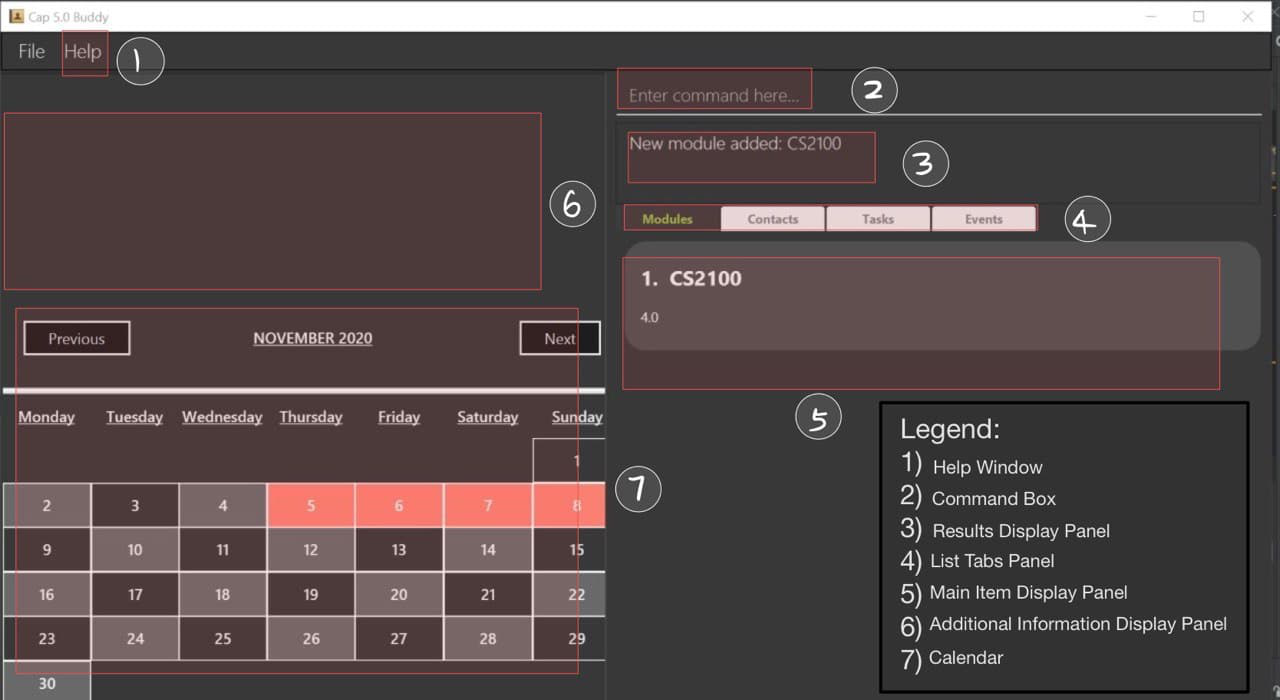
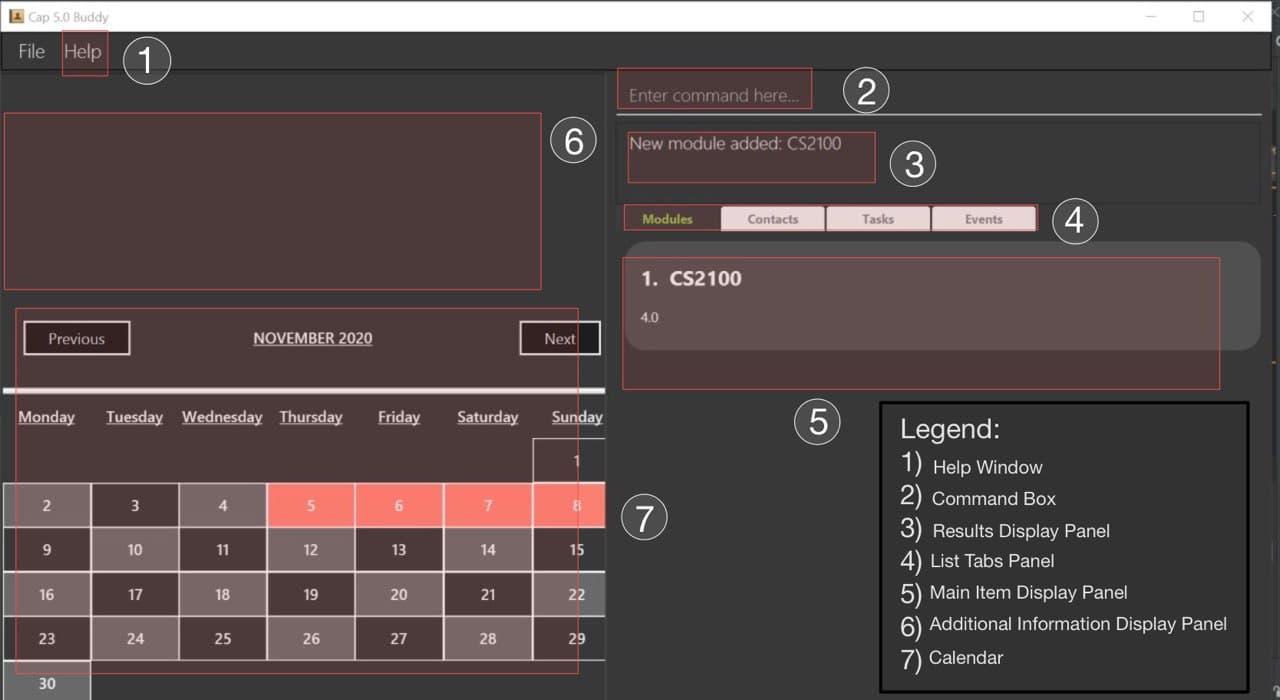
Update UG

diff --git a/docs/index.md b/docs/index.md
@@ -45,47 +45,47 @@ For a quick summary of all available commands, you may scroll to the end of this
 
 #### Help Window (Matthias Li Huankang)
 <p align="center"><img src="images/Help.png" border="2px solid black"></p>
-<p align="center"> Help Window </p>
+<p align="center"> <em>Help Window</em> </p>
 
 You can click this button to open up the User Guide help window. It will pop open a new window with the link to
 the User Guide Website.
 
 #### Command Box (Matthias Li Huankang)
 <p align="center"><img src="images/CommandBox.png" border="2px solid black"></p>
-<p align="center"> Command Box </p>
+<p align="center"> <em>Command Box</em> </p>
 
 Here is where you enter your command input to be executed by the application.
 
 #### Results Display Panel (Matthias Li Huankang)
 <p align="center"><img src="images/ResultWindow.png" border="2px solid black"></p>
-<p align="center"> Result Display Panel </p>
+<p align="center"> <em>Result Display Panel</em> </p>
 
 This panel will display the status of the command, whether it passes or fails, and displays some basic information
 or error message.
 
 #### List Tabs Panel (Matthias Li Huankang)
 <p align="center"><img src="images/TabsBar.png" border="2px solid black"></p>
-<p align="center"> List Tabs Panel </p>
+<p align="center"> <em>List Tabs Panel</em> </p>
 
 From here, you can choose between the different windows to view.
 
 #### Main Item Display Panel (Matthias Li Huankang)
 <p align="center"><img src="images/ItemDisplayWindow.png" border="2px solid black"></p>
-<p align="center"> Main Item Display Panel </p>
+<p align="center"> <em>Main Item Display Panel</em></p>
 
 Here is where all items that are added into the application can be found.
 It shows all the items as individual cell boxes with some of the basic information on the item being shown.
 
 #### Additional Information Display Panel (Matthias Li Huankang)
 <p align="center"><img src="images/AdditionalDisplayWindow.png" border="2px solid black"></p>
-<p align="center"> Additional Information Display Panel </p>
+<p align="center"> <em>Additional Information Display Panel</em> </p>
 
 As the Main Item Display Panel only show the basic information for the items being tracked.
 This panel is in-charge of displaying all the additional information of the item when a view Command is called on the item.
 
 #### Calendar (Matthias Li Huankang)
 <p align="center"><img src="images/Calendar.png" border="2px solid black"></p>
-<p align="center"> Calendar </p>
+<p align="center"> <em>Calendar</em> </p>
 
 This is where you can see the monthly view of the calendar. The days which have events will be marked in red, so
 that it can easily be identified. From the Calendar figure above, the Calendar also have two buttons that allows the user to
